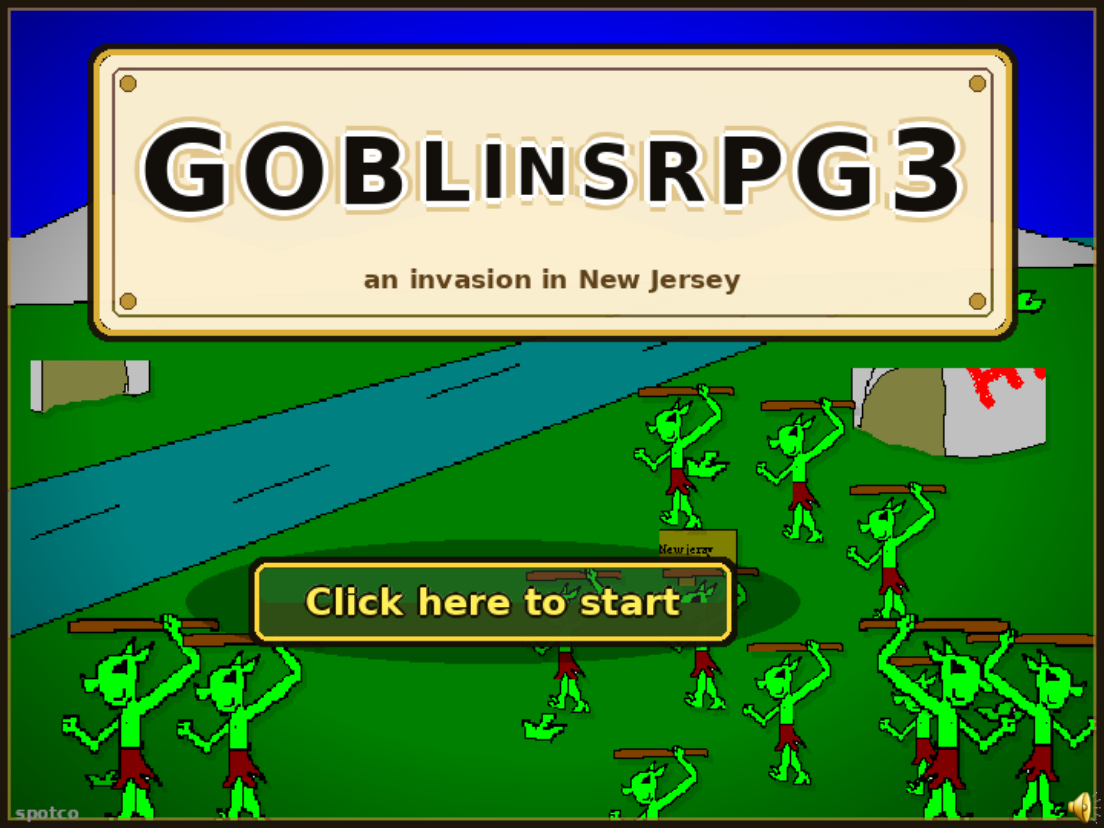
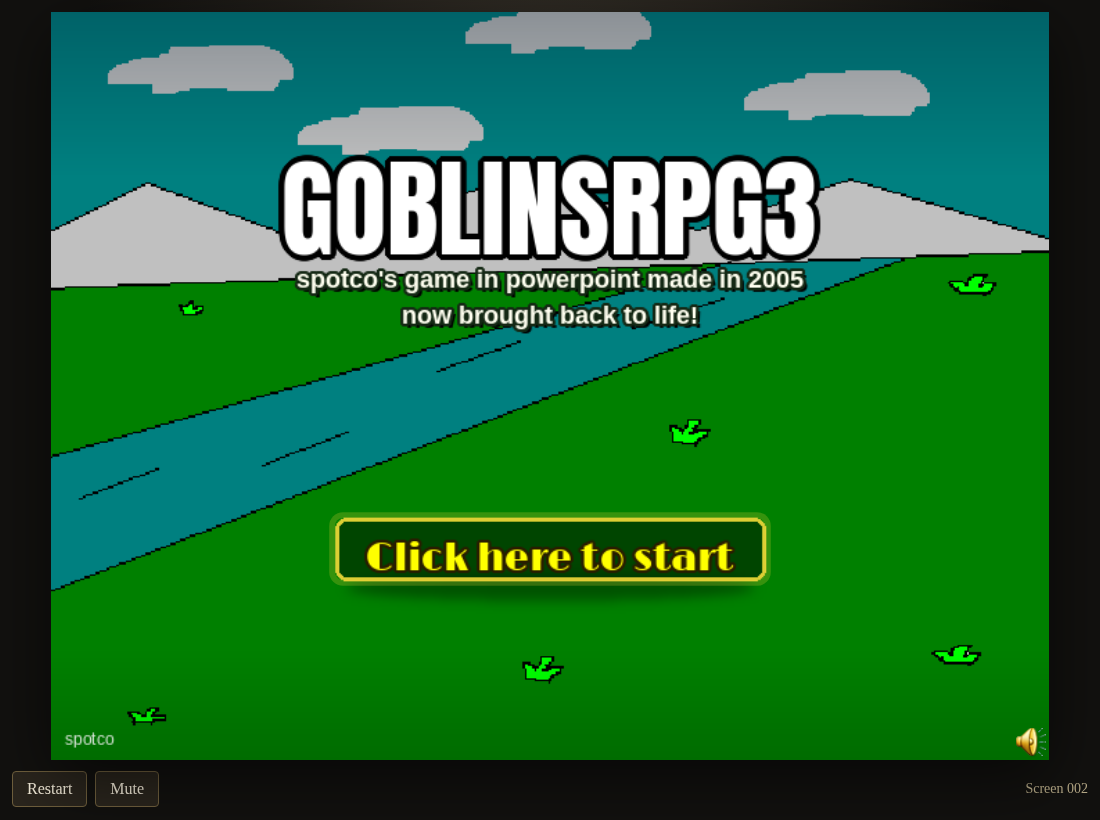
Revise slide-002 title: center UI, landscape-only, 2005 subtitle.
Drop goblins/hut from the scenic underlay; bake centered Impact-like
title, Arial subtitle, and Broadway yellow start CTA. Reposition the
start hotspot to the painted CTA center (fixes off-center pulse/hitbox)
while keeping one-click → slide-003 and mute/speaker.

diff --git a/docs/styles.css b/docs/styles.css
@@ -671,21 +671,26 @@ button:focus-visible {
 }
 
 /* ——— Title screen redesign (slide-002 only) ———
-   Scenic mashup PNG carries logo + CTA. Hide live Deflate WordArt so we do not
-   double-draw or punch underlay holes through the parchment banner. Hotspot
-   hyperlink behavior is unchanged. */
+   Landscape-only PNG carries centered title/subtitle/CTA (Impact-like + Broadway
+   yellow start link). Hide live WordArt + start text to avoid double-draw.
+   Hotspot is repositioned to the painted CTA center (not original PPT offset). */
 .stage[data-screen-id="slide-002"] .wordart-layer,
 .stage[data-screen-id="slide-002"] .wordart-deflate,
-.stage[data-screen-id="slide-002"] .layer[data-shape-id="2052"] {
+.stage[data-screen-id="slide-002"] .layer[data-shape-id="2052"],
+.stage[data-screen-id="slide-002"] .layer[data-shape-id="2056"] {
   visibility: hidden !important;
   pointer-events: none !important;
 }
 
-/* Expand start hotspot hitbox to match the painted CTA plaque (same center). */
+/* Center start hotspot over painted CTA plaque (720x540: x205-515, y365-410). */
 .stage[data-screen-id="slide-002"] .hotspot[data-shape-id="2056"] {
-  transform: scale(1.57, 1.72);
-  transform-origin: center center;
+  left: 28.472% !important;
+  top: 67.593% !important;
+  width: 43.056% !important;
+  height: 8.333% !important;
+  transform: none;
   border-radius: 8px;
+  animation: title-cta-pulse 2.4s ease-in-out infinite;
 }
 
 .stage[data-screen-id="slide-002"] .hotspot[data-shape-id="2056"]:hover,
@@ -698,8 +703,4 @@ button:focus-visible {
 @keyframes title-cta-pulse {
   0%, 100% { box-shadow: 0 0 0 0 rgba(255, 215, 60, 0.0); }
   50% { box-shadow: 0 0 0 6px rgba(255, 215, 60, 0.22); }
-}
-
-.stage[data-screen-id="slide-002"] .hotspot[data-shape-id="2056"] {
-  animation: title-cta-pulse 2.4s ease-in-out infinite;
 }

diff --git a/docs/app.js b/docs/app.js
@@ -2096,8 +2096,8 @@ function applyPngUnderlayWordArtHoles(screen) {
     clearPngUnderlayWordArtHoles();
     return;
   }
-  // Title redesign (slide-002): scenic PNG carries baked logo; do not punch
-  // underlay holes for live WordArt (CSS hides the WordArt layer on this slide).
+  // Title redesign (slide-002): landscape PNG carries baked logo/CTA; do not
+  // punch underlay holes for live WordArt (CSS hides WordArt + start text).
   if (screen && screen.id === "slide-002") {
     clearPngUnderlayWordArtHoles();
     return;
